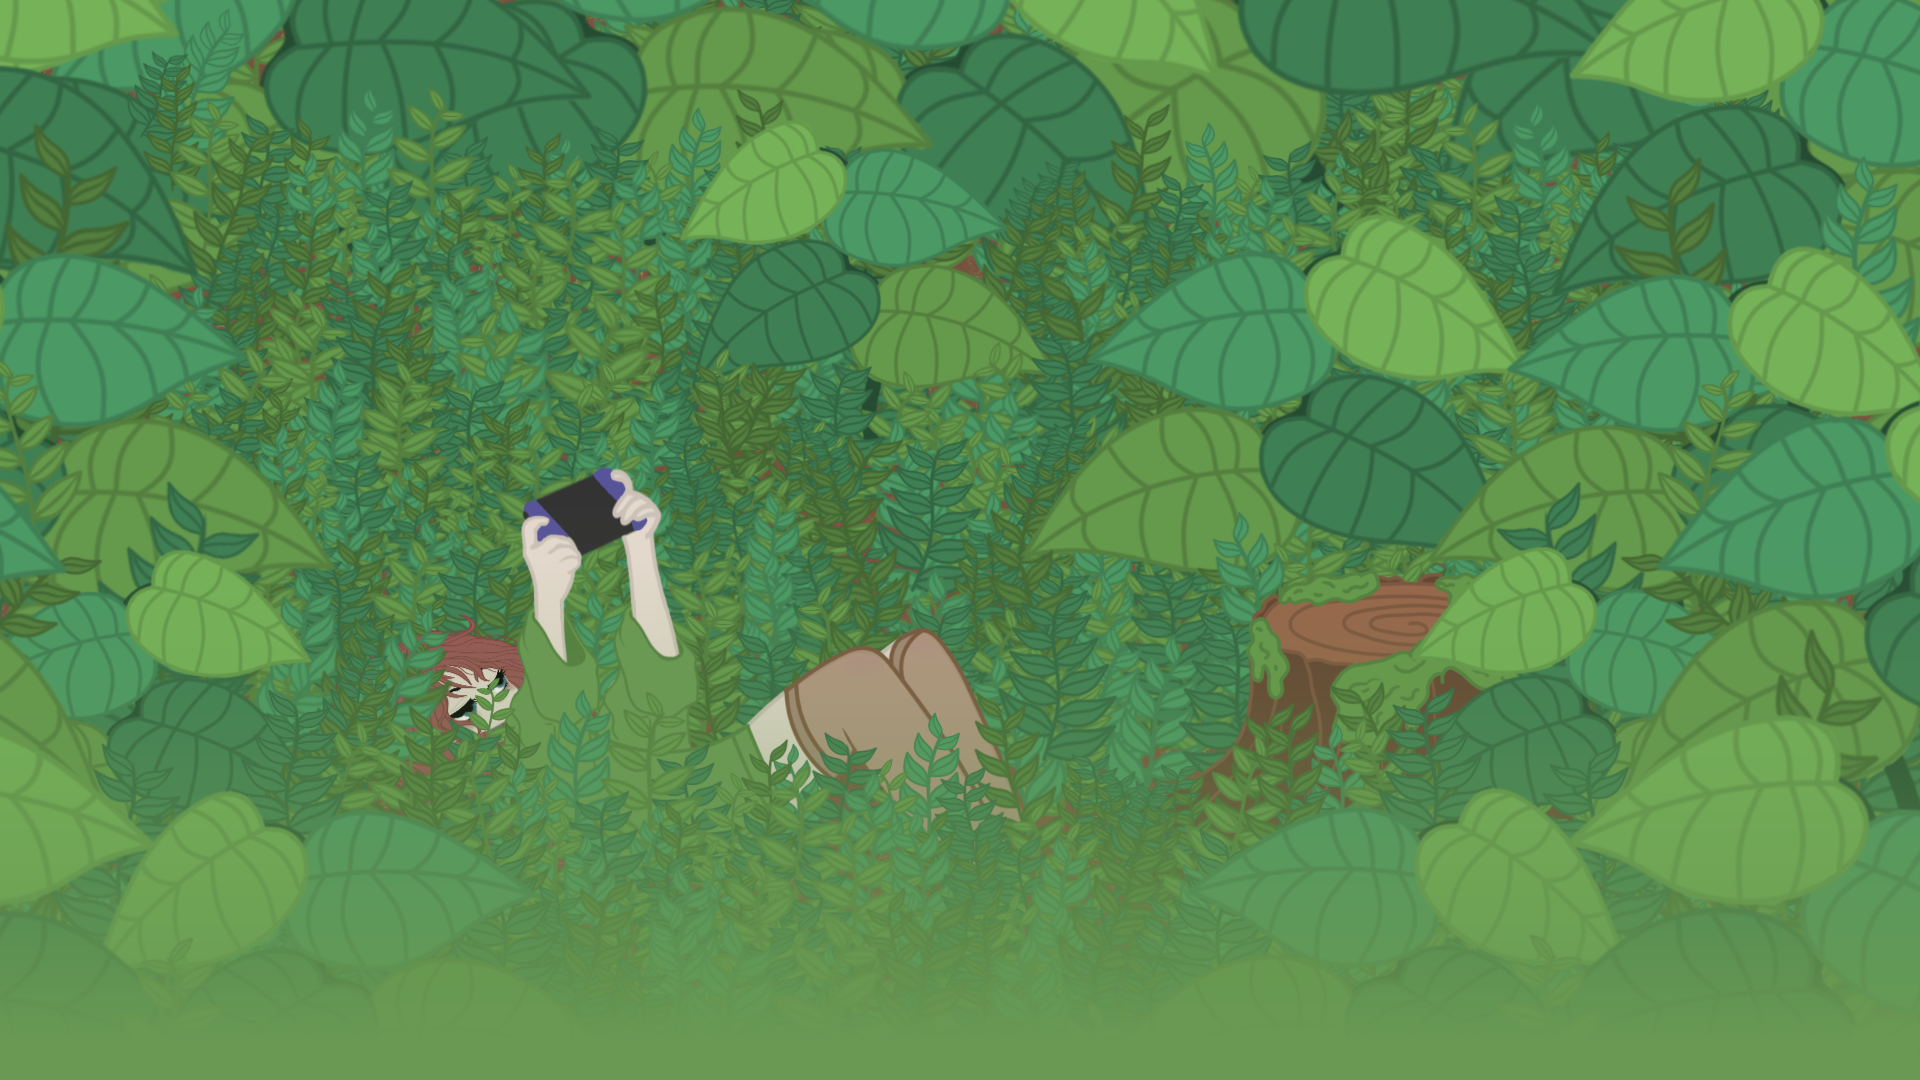
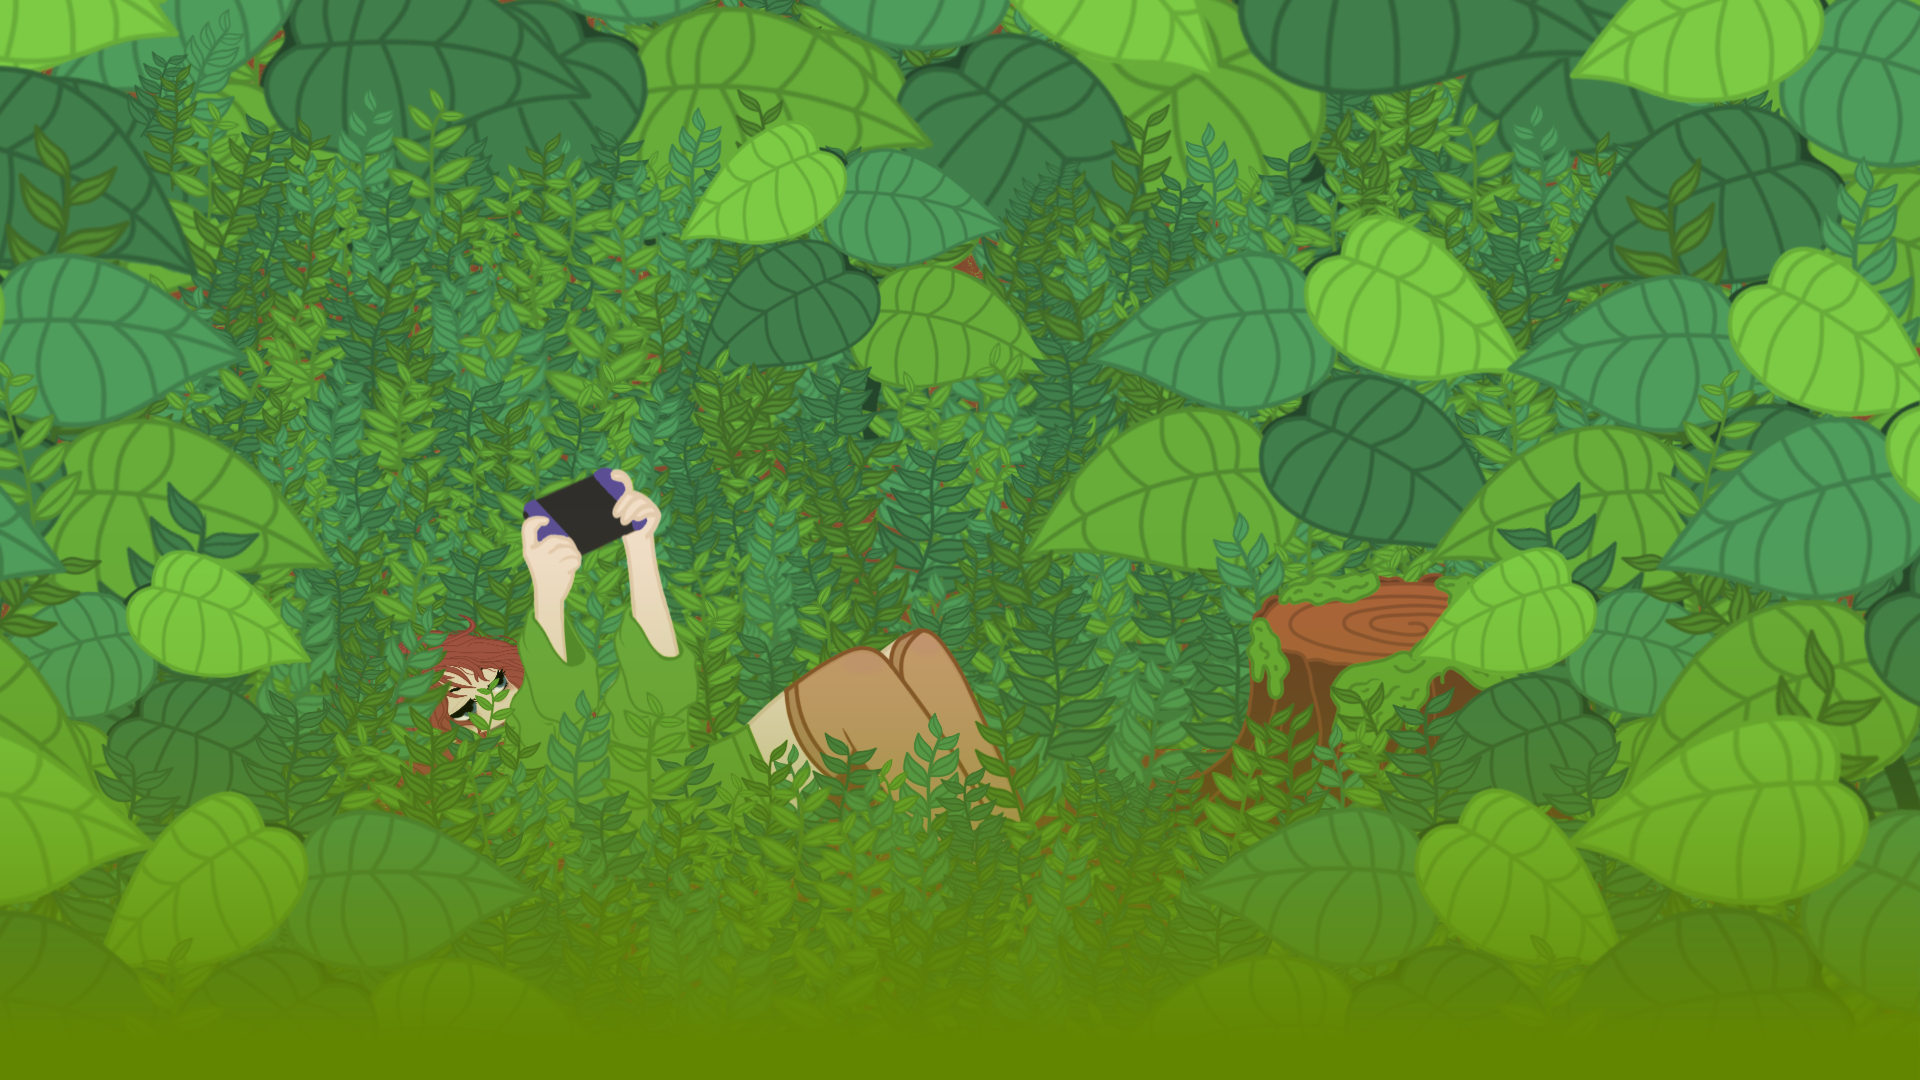
Moved and renamed files, updated navigation links

diff --git a/Css/Styles.css b/Css/Styles.css
@@ -23,54 +23,54 @@ DESIGN TOKENS
   --font-heading: 'Megrim', cursive;
   --font-subhead: 'Ranga', cursive;
 
-  --color-primary: #699953;
-  --color-primary-trans: rgba(70,101,55,0.5);
-  --color-text: #466537;
+  --color-primary: #638600;
+  --color-primary-trans: rgba(98, 134, 0, 0.5);
+  --color-text: #638600;
   --color-transparent: rgba(255,0,0,0.02);
-  --nav-bg: #e3ecdf;
+  --nav-bg: #111;
   --nav-link: #e0f0ff;
-  --nav-hover-bg: #699953;
-  --nav-hover-link: #466537;
-  --foot-bg-color: #111111;
+  --nav-hover-bg: rgb(150, 190, 132);
+  --nav-hover-link: #111;
+  --foot-bg-color: #638600;
 }
 
 /* ==============================================================
 PAGE‑SPECIFIC THEME – ContentCreation
 ============================================================== */
 .ContentCreation {
-  --color-primary:   #836d58;
-  --color-primary-trans: rgba(131, 109, 88, 0.5);
-  --color-text:      #4f4235;
-  --nav-bg:          #f3efeb;
+  --color-primary:   #007086;
+  --color-primary-trans: rgba(0, 112, 134, 0.5);
+  --color-text:      #007086;
+  --nav-bg:          #111;
   --nav-link:        #e0f0ff;
-  --nav-hover-bg:    #836d58;
-  --nav-hover-link:  #4f4235;
+  --nav-hover-bg:    #6396a0;
+  --nav-hover-link:  #111;
 }
 
 /* ==============================================================
 PAGE‑SPECIFIC THEME – Programming
 ============================================================== */
 .Programmering {
-  --color-primary:   #693f7f;
-  --color-primary-trans: rgb(105, 63, 127, 0.5);
-  --color-text:      #3e254c;
-  --nav-bg:          #f3efeb;
+  --color-primary:   #84009f;
+  --color-primary-trans: rgba(133, 0, 159, 0.5);
+  --color-text:      #84009f;
+  --nav-bg:          #111;
   --nav-link:        #e0f0ff;
-  --nav-hover-bg:    #693f7f;
-  --nav-hover-link:  #3e254c;
+  --nav-hover-bg:    #875891;
+  --nav-hover-link:  #111;
 }
 
 /* ==============================================================
 PAGE‑SPECIFIC THEME – Education
 ============================================================== */
 .Utbildning {
-  --color-primary:   #3d3835;
-  --color-primary-trans: rgba(61, 56, 53, 0.5);
-  --color-text:      #3d3835;
-  --nav-bg:          #f3efeb;
+  --color-primary:   #875727;
+  --color-primary-trans: rgba(135, 87, 39, 0.5);
+  --color-text:      #875727;
+  --nav-bg:          #111;
   --nav-link:        #e0f0ff;
-  --nav-hover-bg:    #79726d;
-  --nav-hover-link:  #79726d;
+  --nav-hover-bg:    #875727;
+  --nav-hover-link:  #111;
 }
 
 /* ==============================================================

diff --git a/Html/Utbildning.html b/Html/Utbildning.html
@@ -19,8 +19,8 @@
       <h1>Utbildning</h1>
       <h3>Ja, vad kan jag egentligen på papper?</h3>
       <p>
-        Jag har vandrat genom en rad olika utbildningar – vissa mer vägledande än andra. 
-        Här delar jag med mig av den resa jag gjort, från de första stegen till de mer avancerade studierna. 
+        Jag har vandrat genom en rad olika utbildningar – vissa mer vägledande än andra.<br> 
+        Här delar jag med mig av den resa jag gjort, från de första stegen till de mer avancerade studierna. <br>
         Det är inte bara om certifikat, utan om de kunskaper och insikter som format mitt sätt att skapa.
       </p>
       </div>
@@ -30,12 +30,12 @@
 <div class="nav-wrapper">
   <button class="nav-toggle">&#9776;</button>
     <ul class="nav">
-        <li><a href="../binarybotanic.github.io/index.html">Hem</a></li>
+        <li><a href="https://binarybotanic.github.io/Min.Portfolio/">Hem</a></li>
         <li><a href="Html/ContentCreation.html">Content Creation</a></li>
-        <li><a href="Html/UX-Design.html">UI/UX Design</a></li>
         <li><a href="Html/Programmering.html">Programmering</a></li>
-        <li><a href="Html/Ovrigt.html">Övrigt</a></li>
         <li><a href="Html/Utbildning.html">Utbildning</a></li>
+        <li><a href="Html/Jobb.html">Jobb</a></li>
+        <li><a href="Html/Blogg.html">Blogg</a></li>
     </ul>
 </div>
 
@@ -97,7 +97,8 @@
       <p>
         Utöver min formella utbildning har jag funnit en djup rotning i naturens lagar genom mina studier på Open University. 
         Här har jag fördjupat mig i en rad kurser om <strong>miljö</strong> och hållbarhet, där varje ny modul öppnar dörren till nya insikter. 
-        Det är en pågående resa; nya kurser dyker upp hela tiden, och varje en av dem lägger en ny sten i min förståelse för hur vi kan leva i harmoni med vår planet.
+        Det är en pågående resa; nya kurser dyker upp hela tiden, och varje en av dem lägger en ny sten i min förståelse för hur vi kan leva i harmoni med 
+        vår planet.
         <br><br>
         Denna kunskap om ekosystem och miljö flödar nu in i allt jag skapar – från koden jag skriver till de färgpaletter jag väljer. 
         Det är en påminnelse om att lärande aldrig tar slut, utan växer lika organiskt som en trädgård som vårdas med omsorg.

diff --git a/Html/IFMetall.html b/Html/IFMetall.html
@@ -18,12 +18,12 @@
 <div class="nav-wrapper">
   <button class="nav-toggle">&#9776;</button>
     <ul class="nav">
-        <li><a href="../binarybotanic.github.io/index.html">Hem</a></li>
+        <li><a href="https://binarybotanic.github.io/Min.Portfolio/">Hem</a></li>
         <li><a href="Html/ContentCreation.html">Content Creation</a></li>
-        <li><a href="Html/UX-Design.html">UI/UX Design</a></li>
         <li><a href="Html/Programmering.html">Programmering</a></li>
-        <li><a href="Html/Ovrigt.html">Övrigt</a></li>
         <li><a href="Html/Utbildning.html">Utbildning</a></li>
+        <li><a href="Html/Jobb.html">Jobb</a></li>
+        <li><a href="Html/Blogg.html">Blogg</a></li>
     </ul>
 </div>
 
@@ -155,10 +155,10 @@
       <ul>
         <li><a href="https://binarybotanic.github.io/Min.Portfolio/">Hem</a></li>
         <li><a href="Html/ContentCreation.html">Content Creation</a></li>
-        <li><a href="Html/UX-Design.html">UI/UX Design</a></li>
         <li><a href="Html/Programmering.html">Programmering</a></li>
-        <li><a href="Html/Ovrigt.html">Övrigt</a></li>
         <li><a href="Html/Utbildning.html">Utbildning</a></li>
+        <li><a href="Html/Jobb.html">Jobb</a></li>
+        <li><a href="Html/Blogg.html">Blogg</a></li>
       </ul>
     </nav>
 

diff --git a/Html/Programmering.html b/Html/Programmering.html
@@ -31,10 +31,10 @@
     <ul class="nav">
         <li><a href="https://binarybotanic.github.io/Min.Portfolio/">Hem</a></li>
         <li><a href="Html/ContentCreation.html">Content Creation</a></li>
-        <li><a href="Html/UX-Design.html">UI/UX Design</a></li>
         <li><a href="Html/Programmering.html">Programmering</a></li>
-        <li><a href="Html/Ovrigt.html">Övrigt</a></li>
         <li><a href="Html/Utbildning.html">Utbildning</a></li>
+        <li><a href="Html/Jobb.html">Jobb</a></li>
+        <li><a href="Html/Blogg.html">Blogg</a></li>
     </ul>
 </div>
 
@@ -211,10 +211,10 @@ För det måste du klicka på bilden ovan &#9757 ♡
       <ul>
         <li><a href="https://binarybotanic.github.io/Min.Portfolio/">Hem</a></li>
         <li><a href="Html/ContentCreation.html">Content Creation</a></li>
-        <li><a href="Html/UX-Design.html">UI/UX Design</a></li>
         <li><a href="Html/Programmering.html">Programmering</a></li>
-        <li><a href="Html/Ovrigt.html">Övrigt</a></li>
         <li><a href="Html/Utbildning.html">Utbildning</a></li>
+        <li><a href="Html/Jobb.html">Jobb</a></li>
+        <li><a href="Html/Blogg.html">Blogg</a></li>
       </ul>
     </nav>
 

diff --git a/Html/ContentCreation.html b/Html/ContentCreation.html
@@ -33,10 +33,10 @@
     <ul class="nav">
         <li><a href="https://binarybotanic.github.io/Min.Portfolio/">Hem</a></li>
         <li><a href="Html/ContentCreation.html">Content Creation</a></li>
-        <li><a href="Html/UX-Design.html">UI/UX Design</a></li>
         <li><a href="Html/Programmering.html">Programmering</a></li>
-        <li><a href="Html/Ovrigt.html">Övrigt</a></li>
         <li><a href="Html/Utbildning.html">Utbildning</a></li>
+        <li><a href="Html/Jobb.html">Jobb</a></li>
+        <li><a href="Html/Blogg.html">Blogg</a></li>
     </ul>
 </div>
 
@@ -365,10 +365,10 @@
       <ul>
         <li><a href="https://binarybotanic.github.io/Min.Portfolio/">Hem</a></li>
         <li><a href="Html/ContentCreation.html">Content Creation</a></li>
-        <li><a href="Html/UX-Design.html">UI/UX Design</a></li>
         <li><a href="Html/Programmering.html">Programmering</a></li>
-        <li><a href="Html/Ovrigt.html">Övrigt</a></li>
         <li><a href="Html/Utbildning.html">Utbildning</a></li>
+        <li><a href="Html/Jobb.html">Jobb</a></li>
+        <li><a href="Html/Blogg.html">Blogg</a></li>
       </ul>
     </nav>
 

diff --git a/index.html b/index.html
@@ -33,10 +33,10 @@
     <ul class="nav">
         <li><a href="https://binarybotanic.github.io/Min.Portfolio/">Hem</a></li>
         <li><a href="Html/ContentCreation.html">Content Creation</a></li>
-        <li><a href="Html/UX-Design.html">UI/UX Design</a></li>
         <li><a href="Html/Programmering.html">Programmering</a></li>
-        <li><a href="Html/Ovrigt.html">Övrigt</a></li>
         <li><a href="Html/Utbildning.html">Utbildning</a></li>
+        <li><a href="Html/Jobb.html">Jobb</a></li>
+        <li><a href="Html/Blogg.html">Blogg</a></li>
     </ul>
 </div>
 
@@ -181,10 +181,10 @@
       <ul>
         <li><a href="https://binarybotanic.github.io/Min.Portfolio/">Hem</a></li>
         <li><a href="Html/ContentCreation.html">Content Creation</a></li>
-        <li><a href="Html/UX-Design.html">UI/UX Design</a></li>
         <li><a href="Html/Programmering.html">Programmering</a></li>
-        <li><a href="Html/Ovrigt.html">Övrigt</a></li>
         <li><a href="Html/Utbildning.html">Utbildning</a></li>
+        <li><a href="Html/Jobb.html">Jobb</a></li>
+        <li><a href="Html/Blogg.html">Blogg</a></li>
       </ul>
     </nav>
 

diff --git a/Html/Blogg.html b/Html/Blogg.html
@@ -31,10 +31,10 @@
     <ul class="nav">
         <li><a href="https://binarybotanic.github.io/Min.Portfolio/">Hem</a></li>
         <li><a href="Html/ContentCreation.html">Content Creation</a></li>
-        <li><a href="Html/UX-Design.html">UI/UX Design</a></li>
         <li><a href="Html/Programmering.html">Programmering</a></li>
-        <li><a href="Html/Ovrigt.html">Övrigt</a></li>
         <li><a href="Html/Utbildning.html">Utbildning</a></li>
+        <li><a href="Html/Jobb.html">Jobb</a></li>
+        <li><a href="Html/Blogg.html">Blogg</a></li>
     </ul>
 </div>
 
@@ -49,10 +49,10 @@
       <ul>
         <li><a href="https://binarybotanic.github.io/Min.Portfolio/">Hem</a></li>
         <li><a href="Html/ContentCreation.html">Content Creation</a></li>
-        <li><a href="Html/UX-Design.html">UI/UX Design</a></li>
         <li><a href="Html/Programmering.html">Programmering</a></li>
-        <li><a href="Html/Ovrigt.html">Övrigt</a></li>
         <li><a href="Html/Utbildning.html">Utbildning</a></li>
+        <li><a href="Html/Jobb.html">Jobb</a></li>
+        <li><a href="Html/Blogg.html">Blogg</a></li>
       </ul>
     </nav>
 

diff --git a/Html/Jobb.html b/Html/Jobb.html
@@ -30,10 +30,10 @@
     <ul class="nav">
         <li><a href="https://binarybotanic.github.io/Min.Portfolio/">Hem</a></li>
         <li><a href="Html/ContentCreation.html">Content Creation</a></li>
-        <li><a href="Html/UX-Design.html">UI/UX Design</a></li>
         <li><a href="Html/Programmering.html">Programmering</a></li>
-        <li><a href="Html/Ovrigt.html">Övrigt</a></li>
         <li><a href="Html/Utbildning.html">Utbildning</a></li>
+        <li><a href="Html/Jobb.html">Jobb</a></li>
+        <li><a href="Html/Blogg.html">Blogg</a></li>
     </ul>
 </div>
 
@@ -48,10 +48,10 @@
       <ul>
         <li><a href="https://binarybotanic.github.io/Min.Portfolio/">Hem</a></li>
         <li><a href="Html/ContentCreation.html">Content Creation</a></li>
-        <li><a href="Html/UX-Design.html">UI/UX Design</a></li>
         <li><a href="Html/Programmering.html">Programmering</a></li>
-        <li><a href="Html/Ovrigt.html">Övrigt</a></li>
         <li><a href="Html/Utbildning.html">Utbildning</a></li>
+        <li><a href="Html/Jobb.html">Jobb</a></li>
+        <li><a href="Html/Blogg.html">Blogg</a></li>
       </ul>
     </nav>
 
